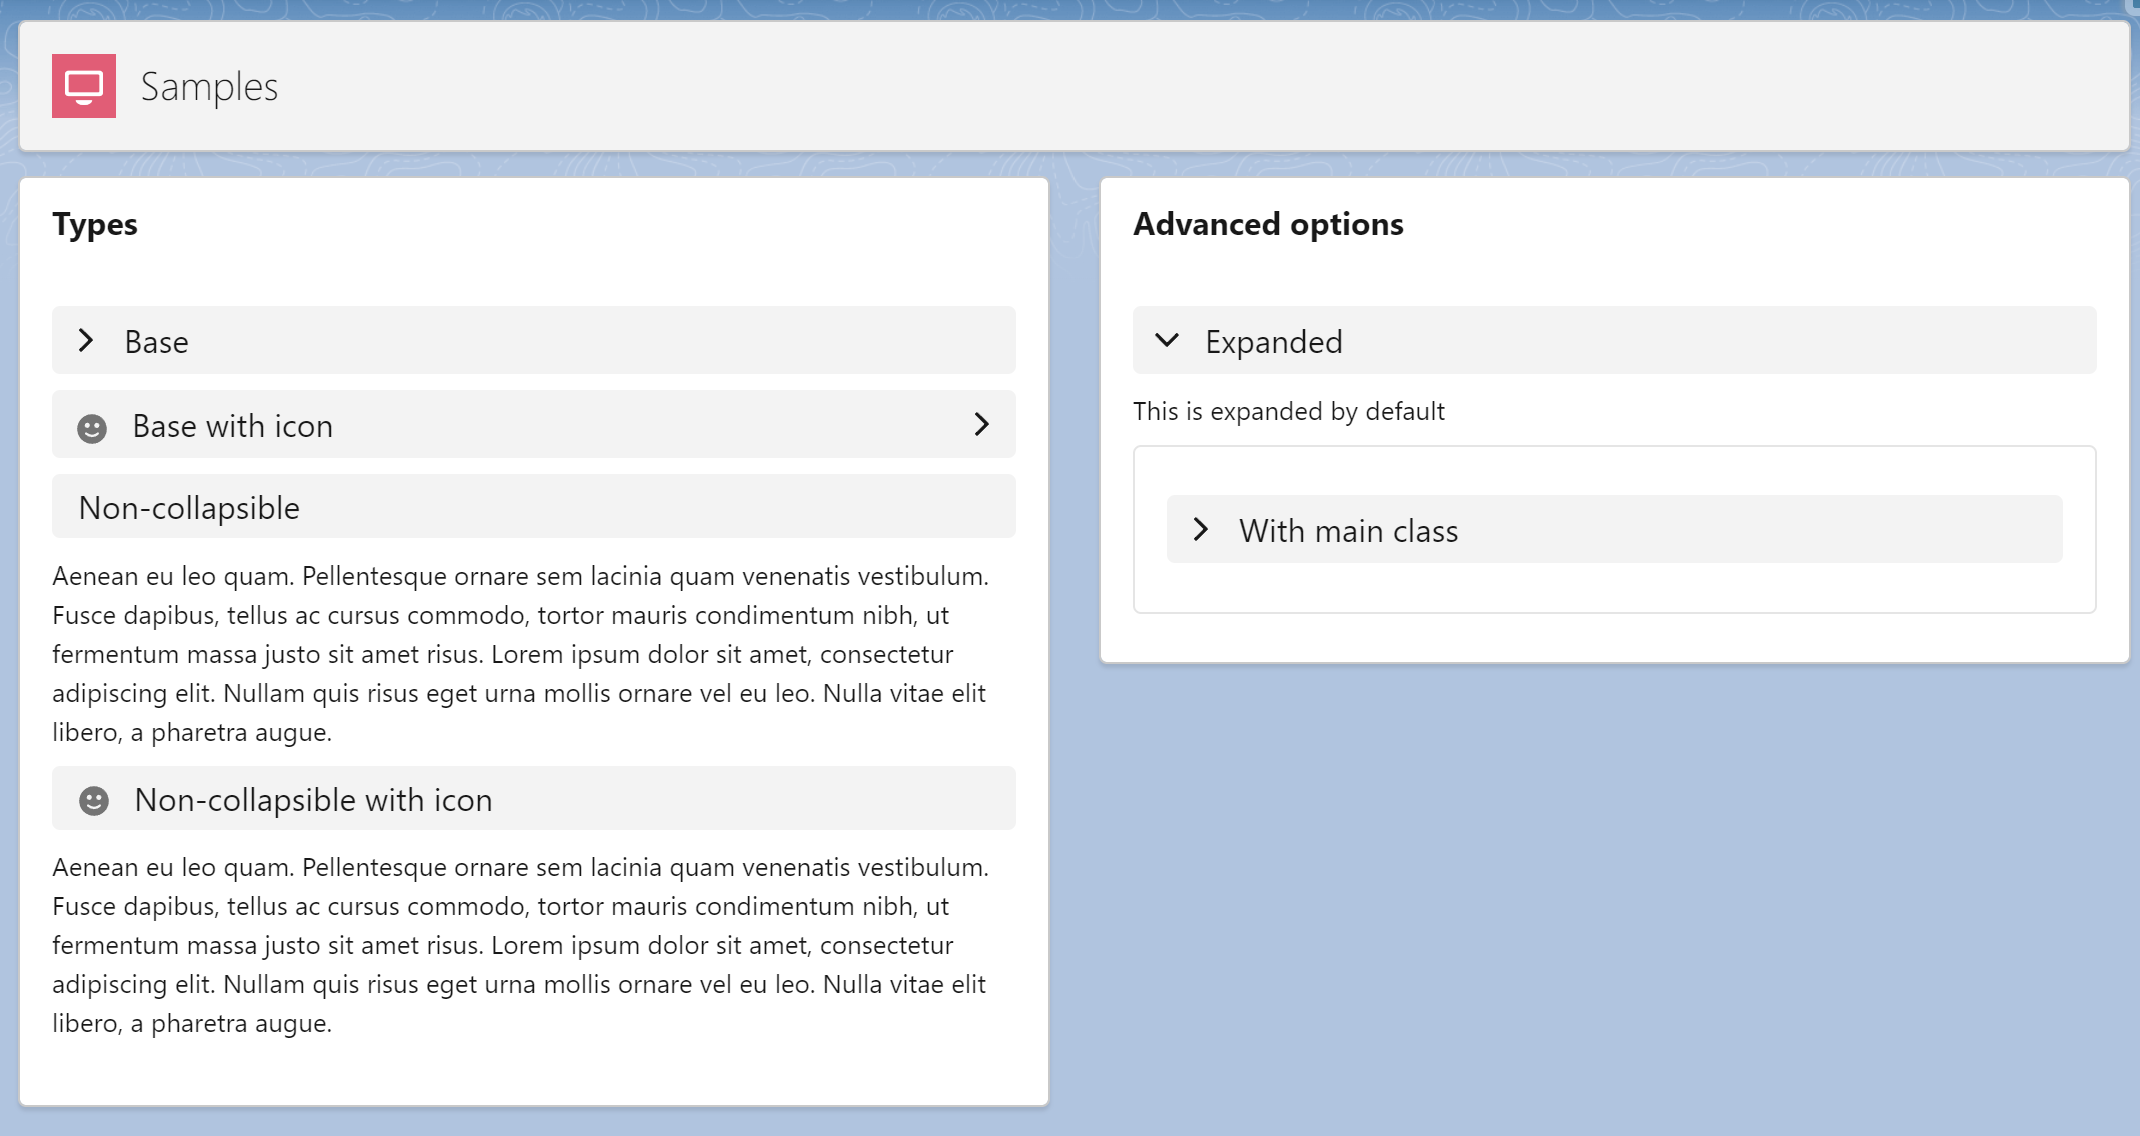
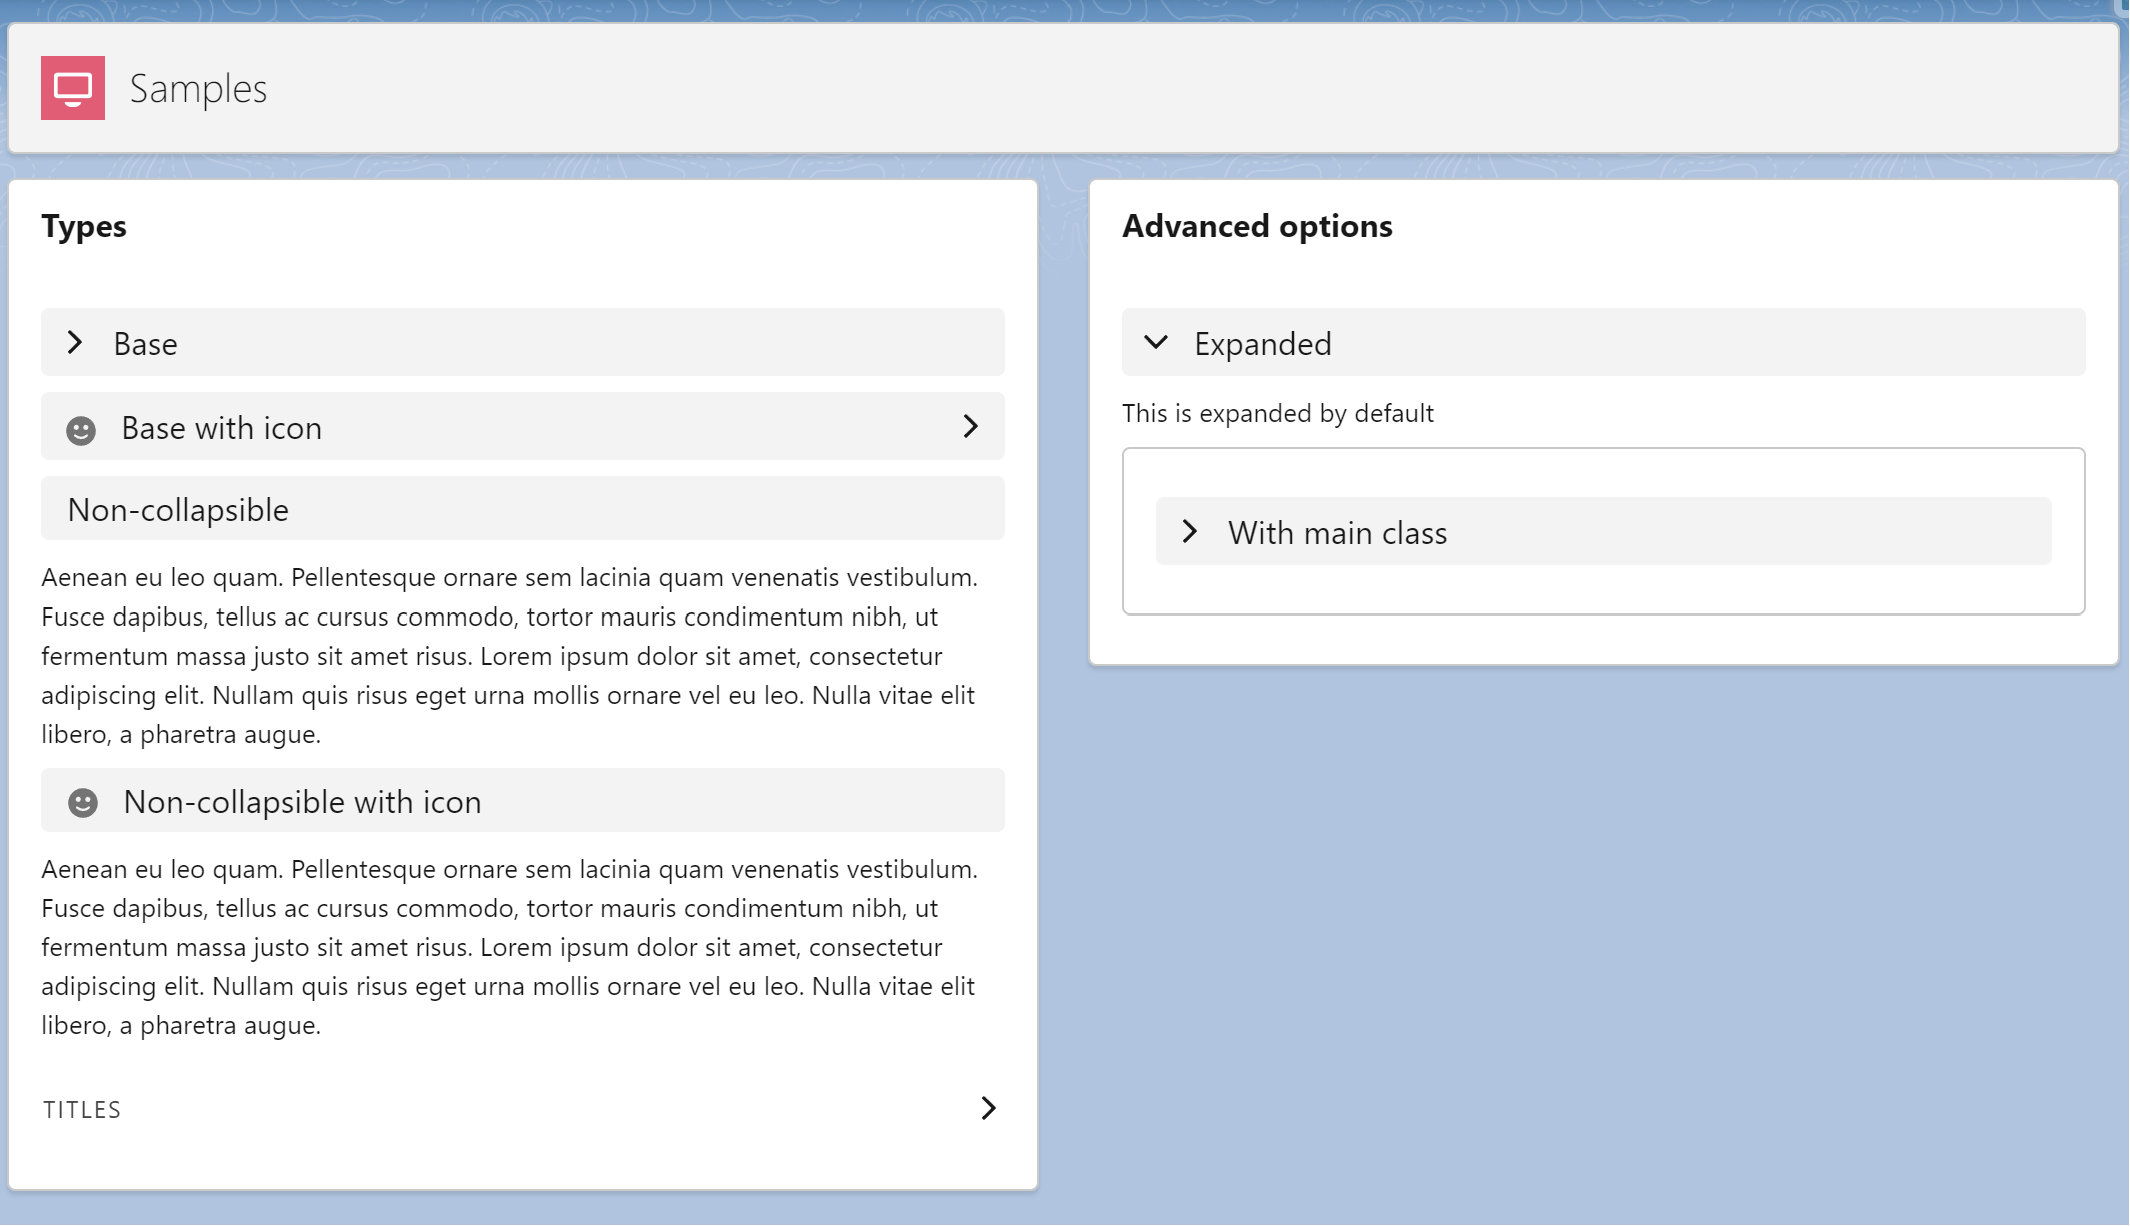
improve readme, add new variant, update boilerplate code

Changed region(s): [[0.0, 0.0, 1.0, 0.9859], [0.5577, 0.4313, 0.6817, 0.493], [0.9915, 0.9859, 1.0, 1.0]]

diff --git a/force-app/main/default/lwc/lwcExpandableSection/lwcExpandableSection.js b/force-app/main/default/lwc/lwcExpandableSection/lwcExpandableSection.js
@@ -1,30 +1,33 @@
 /**
  * @description       : LWC Expandable Section Component
  * @group             : Generic Components
- * @last modified on  : 2022-12-26
+ * @last modified on  : 2023-12-05
  * @last modified by  : samuel@pipelaunch.com
  * @changelog         : 2022-01-26 - Initial version
+ *                      2023-11-28 - Added sectionTitleBackgroundColor
+ *                      2023-12-04 - Added new variant styles (titles)
  **/
 import { LightningElement, api } from "lwc";
 
 import template_base from "./templates/base.html";
+import template_titleSections from "./templates/titleSections.html";
 import template_nonCollapsible from "./templates/nonCollapsible.html";
 
 import * as utils from "./lwcExpandableSectionUtils";
 
 export default class LwcExpandableSection extends LightningElement {
   /**
-   * @property {string} mainClass CSS classes for the main element.
+   * @property {string} - CSS classes for the main element.
    */
   @api mainClass = "";
 
   /**
-   * @property {string} sectionTitle - title or label of the section
+   * @property {string} - title or label of the section
    */
   @api sectionTitle = "";
 
   /**
-   * @property {string} iconName - name of the icon to be displayed
+   * @property {string} - name of the icon to be displayed
    * @default null
    * @example utility:emoji
    * // TODO: validate and add more options
@@ -32,9 +35,16 @@ export default class LwcExpandableSection extends LightningElement {
   @api iconName = null;
 
   /**
-   * @property {string} variant - variant of the component
+   * @property {string|null} - background color of the section
+   * default will be the normal background color (grey)
+   * @example #F3F3F3
+   */
+  @api sectionTitleBackgroundColor = null;
+
+  /**
+   * @property {string} - variant of the component
    * @default base
-   * @options base, non-collapsible
+   * @options base, non-collapsible, titles
    */
   @api get variant() {
     return this._variant;
@@ -42,11 +52,13 @@ export default class LwcExpandableSection extends LightningElement {
   _variant = "base";
   set variant(value) {
     this._variant = utils.validateVariant(value);
-    if (this._variant === "non-collapsible") this._expanded = true;
+    if (this._variant === "non-collapsible") {
+      this._expanded = true;
+    }
   }
 
   /**
-   * @property {boolean} expanded - state of the section (expanded or not)
+   * @property {boolean} - state of the section (expanded or not)
    * @default false
    */
   @api get expanded() {
@@ -58,36 +70,61 @@ export default class LwcExpandableSection extends LightningElement {
   }
 
   render() {
-    return this._variant === "non-collapsible"
-      ? template_nonCollapsible
-      : template_base;
+    switch (this._variant) {
+      case "non-collapsible":
+        return template_nonCollapsible;
+      case "titles":
+        return template_titleSections;
+      default:
+        return template_base;
+    }
   }
 
   /**
-   * @type {String} - class of the parent element with dynamic open class
+   * @type {string} - class of the parent element with dynamic open class
    */
   get computeSectionClasses() {
     return this._expanded ? "slds-section slds-is-open" : "slds-section";
   }
 
+  /**
+   * @type {string} - class of the button with dynamic open class
+   */
   get computeButtonClasses() {
     const classes = [
       "slds-button",
       "slds-section__title-action",
       "slds-grid",
-      "slds-grid_vertical-align-center",
+      "slds-grid_vertical-align-center"
     ];
     if (this.iconName) {
       classes.push("slds-grid_align-spread", "slds-grid_reverse");
-    } 
+    }
     return classes.join(" ");
   }
 
+  /**
+   * @type {string} - are hidden attribute
+   */
   get computeAreaHidden() {
     return this._expanded ? "false" : "true";
   }
 
+  /**
+   * @type {string} - inline styles for the section title
+   */
+  get computeSectionTitleStyles() {
+    if (this.sectionTitleBackgroundColor) {
+      return `background-color: ${this.sectionTitleBackgroundColor};`;
+    }
+    return "";
+  }
+
+  /**
+   * @description handles click on the button to expand/collapse the section
+   */
   handleClick() {
     this._expanded = !this._expanded;
+    this.dispatchEvent(new CustomEvent("toggle", { detail: this._expanded }));
   }
 }

diff --git a/force-app/main/default/lwc/lwcExpandableSection/templates/titleSections.html b/force-app/main/default/lwc/lwcExpandableSection/templates/titleSections.html
@@ -1,0 +1,29 @@
+<template>
+    <main class={mainClass}>
+        <div class={computeSectionClasses}>
+            <h3 class="slds-section__title">
+                <button aria-controls="expando-unique-id" aria-expanded={expanded}
+                    class="slds-button slds-grid slds-grid_align-spread slds-section__title-action custom-button"
+                    onclick={handleClick}>
+
+                    <span class="slds-truncate slds-text-title_caps slds-var-p-right_small"
+                        title={sectionTitle}>{sectionTitle}</span>
+
+                    <svg version="1.1" viewBox="0 0 52 52" class="slds-section__title-action-icon slds-button__icon">
+                        <g>
+                            <path
+                                d="M47.6,17.8L27.1,38.5c-0.6,0.6-1.6,0.6-2.2,0L4.4,17.8c-0.6-0.6-0.6-1.6,0-2.2l2.2-2.2
+                    c0.6-0.6,1.6-0.6,2.2,0l16.1,16.3c0.6,0.6,1.6,0.6,2.2,0l16.1-16.3c0.6-0.6,1.6-0.6,2.2,0l2.2,2.2C48.1,16.3,48.1,17.2,47.6,17.8z">
+                            </path>
+                        </g>
+                    </svg>
+                    <label class="slds-assistive-text">Expand/Collapse</label>
+                </button>
+            </h3>
+
+            <div aria-hidden={computeAreaHidden} class="slds-section__content">
+                <slot></slot>
+            </div>
+        </div>
+    </main>
+</template>

diff --git a/force-app/main/default/lwc/samples/samples.html b/force-app/main/default/lwc/samples/samples.html
@@ -35,6 +35,14 @@
                         risus. Lorem ipsum dolor sit amet, consectetur adipiscing elit. Nullam quis risus eget urna
                         mollis ornare vel eu leo. Nulla vitae elit libero, a pharetra augue.
                     </c-lwc-expandable-section>
+
+
+                    <c-lwc-expandable-section main-class="slds-var-m-top_large" section-title="Titles" variant="titles">
+                        Aenean eu leo quam. Pellentesque ornare sem lacinia quam venenatis vestibulum. Fusce dapibus,
+                        tellus ac cursus commodo, tortor mauris condimentum nibh, ut fermentum massa justo sit amet
+                        risus. Lorem ipsum dolor sit amet, consectetur adipiscing elit. Nullam quis risus eget urna
+                        mollis ornare vel eu leo. Nulla vitae elit libero, a pharetra augue.
+                    </c-lwc-expandable-section>
                 </div>
             </lightning-card>
         </div>

diff --git a/force-app/main/default/lwc/lwcExpandableSection/templates/titleSections.css b/force-app/main/default/lwc/lwcExpandableSection/templates/titleSections.css
@@ -1,0 +1,19 @@
+.custom-button {
+  padding: 0;
+  font-size: inherit;
+  color: inherit;
+  line-height: inherit;
+  background: transparent;
+  border: 0;
+  text-align: inherit;
+}
+
+.custom-button:hover {
+  box-shadow: none;
+  color: var(--slds-c-button-text-color, var(--sds-c-button-text-color, var(--lwc-brandAccessible, rgb(1, 118, 211))));
+}
+
+.custom-button:focus {
+  box-shadow: none;
+  color: var(--slds-c-button-text-color, var(--sds-c-button-text-color, var(--lwc-brandAccessible, rgb(1, 118, 211))));
+}

diff --git a/force-app/main/default/lwc/lwcExpandableSection/lwcExpandableSectionUtils.js b/force-app/main/default/lwc/lwcExpandableSection/lwcExpandableSectionUtils.js
@@ -1,11 +1,11 @@
 // @ts-check
 /**
  * @description validates variant to prevent invalid values
- * @param {String} input
- * @returns {String}
+ * @param {string} input
+ * @returns {string}
  */
 export function validateVariant(input) {
-  const VALID_VARIANTS = ["base", "non-collapsible"];
+  const VALID_VARIANTS = ["base", "non-collapsible", "titles"];
   if (!input || input.length === 0 || !VALID_VARIANTS.includes(input)) {
     return VALID_VARIANTS[0];
   }

diff --git a/README.md b/README.md
@@ -51,6 +51,17 @@ https://www.lightningdesignsystem.com/components/expandable-section/
 ### Accordion vs Expandable Section
 Section Titles are interactive titles that open and close sections, typically on a form. An accordion allows a user to toggle the display of a section of content. Expandable sections are used to break up content into logical groups.
 
+## Properties
+| Property                   | Required | Description                                                        | Sample                               |
+| -------------------------- | -------- | ------------------------------------------------------------------ | ------------------------------------- |
+| `mainClass`                | No       | CSS classes for the main element.                                  | `slds-var-m-bottom_large`                                  |
+| `sectionTitle`             | No       | Title or label of the section.                                     | `Filters`                                  |
+| `iconName`                 | No       | Name of the icon to be displayed.                                  | `utility:info` |
+| `sectionTitleBackgroundColor` | No    | Background color of the section. Default is the normal background color (grey). | `#F3F3F3`                  |
+| `variant`                  | No       | Variant of the component. Default is `base`. Options: `base`, `non-collapsible`, `titles`. | `base`                                |
+| `expanded`                 | No       | State of the section (expanded or not). Default is `false`.       | `false`                               |
+
+
 ## References
 
 - https://www.lightningdesignsystem.com/components/expandable-section/
